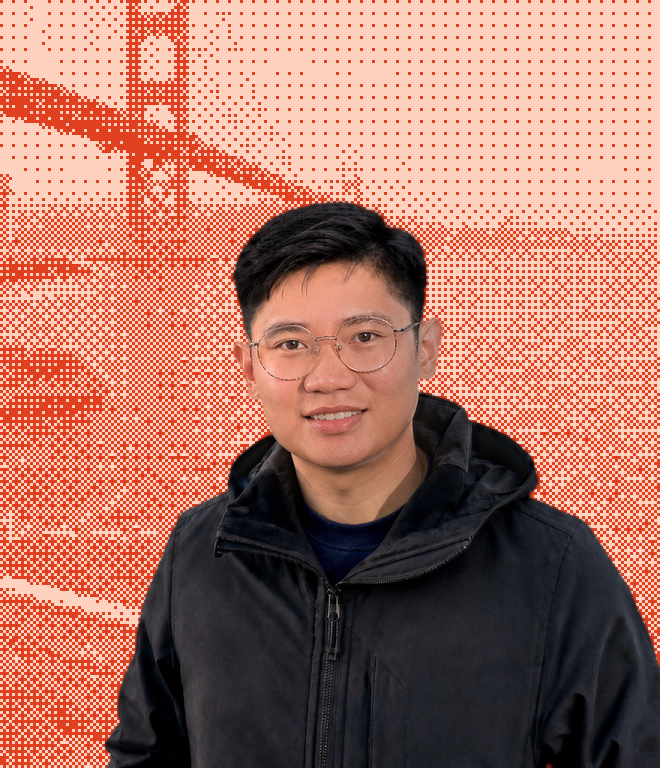
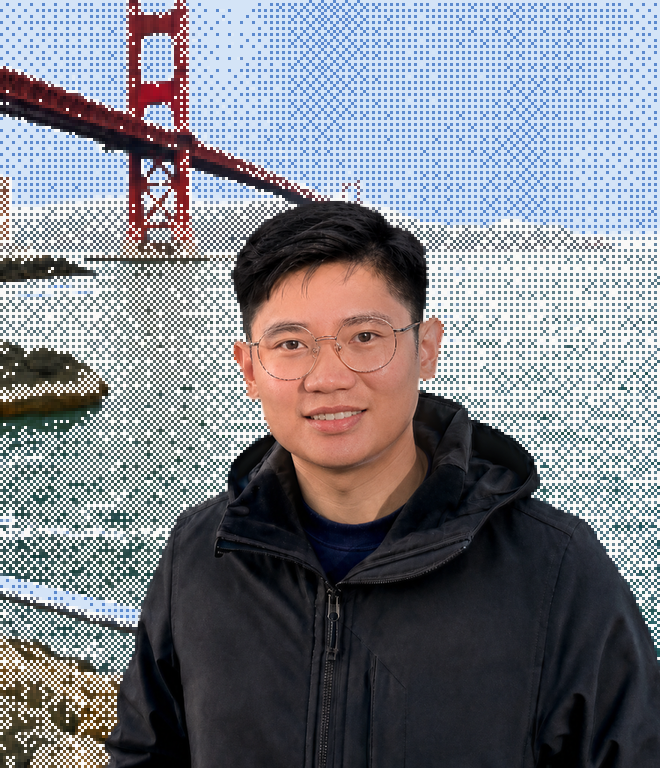
feat(brand): share-image photo in the photo's own colours with a cloudy sky
The share card photo drops the coral dither for the look picked for the hero
card: Kyle in true colour over a dither of the photo in its own colours on
cream, 3px cells, 8x8 Bayer. The sky becomes a soft cloudy blue and the
bridge cables are folded into it so they stop adding noise; the towers and
deck stay. build_brand.py carries the recipe, so the image rebuilds from
source.png.

diff --git a/scripts/hero/build_brand.py b/scripts/hero/build_brand.py
@@ -8,8 +8,9 @@ app/apple-icon.png (180) and public/icons/{icon-192,icon-512,maskable-512}.png.
 icon.png matters as much as the favicon: Chrome on a Retina screen draws the
 tab from the 512 PNG, not the ICO.
 
-Share-image photo: the hero card, Kyle in true colour over a two-tone coral
-Bayer dither, written to app/_og/kyle-card.png for app/opengraph-image.tsx.
+Share-image photo: the hero card, Kyle in true colour over a dither of the
+photo in its own colours on cream (blue cloudy sky, red bridge, no cables),
+written to app/_og/kyle-card.png for app/opengraph-image.tsx.
 
 Both use subject-matte-birefnet.png, rembg `birefnet-general-lite` run on the
 2048x3072 master and downscaled to source.png. The older u2net matte
@@ -27,8 +28,6 @@ from PIL import Image, ImageEnhance, ImageFilter, ImageOps
 HERE = Path(__file__).parent
 ROOT = HERE.parent.parent
 INK, CREAM = (0x1C, 0x19, 0x17), (0xFA, 0xF9, 0xF7)
-CORAL_LO, CORAL_HI = (0xE0, 0x40, 0x1F), (0xFF, 0xD2, 0xBF)
-BAYER = np.array([[0, 8, 2, 10], [12, 4, 14, 6], [3, 11, 1, 9], [15, 7, 13, 5]]) / 16.0
 
 src = Image.open(ROOT / "public/hero/source.png").convert("RGB")
 matte = Image.open(HERE / "subject-matte-birefnet.png").convert("L")
@@ -71,16 +70,6 @@ def ink_icon(size: int, side: int, headroom: int) -> Image.Image:
     return Image.composite(duo, Image.new("RGB", (size, size), CREAM), m.resize((size, size), Image.LANCZOS))
 
 
-def coral_dither(img: Image.Image, cell: int) -> Image.Image:
-    L = ImageOps.autocontrast(img.convert("L"), cutoff=2)
-    sw, sh = img.width // cell, img.height // cell
-    g = np.asarray(L.resize((sw, sh), Image.BOX), dtype=float) / 255
-    t = np.tile(BAYER, (sh // 4 + 1, sw // 4 + 1))[:sh, :sw]
-    lvl = np.clip(np.floor(g + t), 0, 1).astype(int)
-    pal = np.array([CORAL_LO, CORAL_HI], dtype=np.uint8)
-    return Image.fromarray(pal[lvl]).resize(img.size, Image.NEAREST)
-
-
 def check_ico(path: Path) -> None:
     """Turbopack decodes the PNG inside the ICO and rejects any colour type but
     RGBA; webpack never looks, so an RGB save passes locally and fails on
@@ -116,14 +105,82 @@ for path, size, side, headroom in [
     ink_icon(size, side, headroom).save(ROOT / path, optimize=True)
     print(f"wrote {path}")
 
-# Share-image photo, framed like the hero card (330x384) at 2x.
+# Share-image photo, framed like the hero card (330x384) at 2x: Kyle in true
+# colour over a dither of the photo in its own colours (red bridge, blue-green
+# water) on cream, with a soft cloudy blue sky and the bridge cables folded
+# away. 3px cells, 8x8 Bayer. Locked 2026-10-04 ("option 2, soft clouds").
+B8 = np.array([[0, 32, 8, 40, 2, 34, 10, 42], [48, 16, 56, 24, 50, 18, 58, 26],
+               [12, 44, 4, 36, 14, 46, 6, 38], [60, 28, 52, 20, 62, 30, 54, 22],
+               [3, 35, 11, 43, 1, 33, 9, 41], [51, 19, 59, 27, 49, 17, 57, 25],
+               [15, 47, 7, 39, 13, 45, 5, 37], [63, 31, 55, 23, 61, 29, 53, 21]]) / 64.0
+SKY_DOT = np.array([92, 138, 206], dtype=np.float32)
+SKY_GAP = np.array([212, 228, 247], dtype=np.float32)
+CREAM_F = np.array(CREAM, dtype=np.float32)
+
+
+def soft_blur(arr: np.ndarray, r: float) -> np.ndarray:
+    img = Image.fromarray((np.clip(arr, 0, 1) * 255).astype(np.uint8)).filter(ImageFilter.GaussianBlur(r))
+    return np.asarray(img, dtype=np.float32) / 255
+
+
+def cloud_noise(sh: int, sw: int, seed: int = 4, octaves: int = 4, base_cells: int = 6) -> np.ndarray:
+    """Soft value noise, wider than tall like real cloud bands. Fixed seed, so
+    every build draws the same clouds."""
+    rng = np.random.default_rng(seed)
+    out = np.zeros((sh, sw), np.float32)
+    amp, tot = 1.0, 0.0
+    for o in range(octaves):
+        gw = base_cells * 2**o
+        gh = max(2, int(gw * 0.55))
+        g = (rng.random((gh + 1, gw + 1)) * 255).astype(np.uint8)
+        out += amp * np.asarray(Image.fromarray(g).resize((sw, sh), Image.BICUBIC), dtype=np.float32) / 255
+        tot += amp
+        amp *= 0.5
+    out /= tot
+    return (out - out.min()) / (out.max() - out.min() + 1e-6)
+
+
+def photo_dither(img: Image.Image, cell: int = 3, cloud: float = 0.7, mix: float = 0.5,
+                 sky_level: float = 0.68, sat: float = 1.7, shade: float = 0.82) -> Image.Image:
+    sw, sh = img.width // cell, img.height // cell
+    small = img.resize((sw, sh), Image.BOX)
+    a = np.asarray(small, dtype=np.float32) / 255
+    mx, mn, lum = a.max(-1), a.min(-1), a.mean(-1)
+    satv = (mx - mn) / (mx + 1e-4)
+    # sky: bright, pale, blue-leaning
+    w = np.clip((lum - 0.66) / 0.12, 0, 1) * np.clip((0.32 - satv) / 0.12, 0, 1) * (a[..., 2] >= a[..., 0] + 0.02)
+    sky = w > 0.5
+    # cables are 1-2 cells wide: closing the sky mask swallows them, the towers
+    # and deck are far wider and reddish, so they stay
+    m = Image.fromarray((sky * 255).astype(np.uint8))
+    closed = np.asarray(m.filter(ImageFilter.MaxFilter(5)).filter(ImageFilter.MinFilter(5))) > 127
+    cables = closed & ~sky & ~(a[..., 0] > a[..., 2] + 0.025) & (lum > 0.45)
+    w = np.maximum(w, cables.astype(np.float32))
+    # cloud tone: the true sky's broad light (blurred far past cable width,
+    # sampled from sky cells only) mixed with soft noise
+    sm = sky.astype(np.float32)
+    broad = soft_blur(lum * sm, 10) / np.maximum(soft_blur(sm, 10), 1e-3)
+    b = broad[sky]
+    rel = (1 - mix) * np.clip((broad - b.min()) / (b.max() - b.min() + 1e-4), 0, 1) + mix * cloud_noise(sh, sw)
+    col = np.asarray(ImageEnhance.Color(small).enhance(sat), dtype=np.float32)
+    L = np.asarray(ImageOps.autocontrast(small.convert("L"), cutoff=2), dtype=np.float32) / 255
+    ww = w[..., None]
+    dot_c = np.clip(col * shade, 0, 255) * (1 - ww) + SKY_DOT * ww
+    gap_c = CREAM_F * (1 - ww) + SKY_GAP * ww
+    L = L * (1 - w) + (sky_level + cloud * (rel - 0.5)) * w
+    t = np.tile(B8, (sh // 8 + 1, sw // 8 + 1))[:sh, :sw]
+    dot = (L < t * 0.85 + 0.08) | (L < 0.35)
+    arr = np.where(dot[..., None], dot_c, gap_c).astype(np.uint8)
+    return Image.fromarray(arr).resize((sw * cell, sh * cell), Image.NEAREST).resize(img.size, Image.NEAREST)
+
+
 W = 750
 H = round(W * 384 / 330)
 sub, m, raw = crop(W, HEAD_TOP - 435, H)
 out = (660, 768)
 card = Image.composite(
     sub.resize(out, Image.LANCZOS),
-    coral_dither(raw.resize(out, Image.LANCZOS), 3),
+    photo_dither(raw.resize(out, Image.LANCZOS)),
     m.resize(out, Image.LANCZOS),
 )
 (ROOT / "app/_og").mkdir(exist_ok=True)

diff --git a/scripts/hero/README.md b/scripts/hero/README.md
@@ -52,8 +52,13 @@ saved RGBA and checked, since Turbopack rejects anything else),
 `public/icons/{icon-192,icon-512,maskable-512}.png` for `app/manifest.ts`.
 `icon.png` has to match the favicon: Chrome on a Retina screen draws the tab
 from the 512 PNG. The share-image photo, `app/_og/kyle-card.png`, is the hero
-card: Kyle in true colour over a two-tone coral Bayer dither (`#e0401f` on
-`#ffd2bf`, 3px cells), read by `app/opengraph-image.tsx`.
+card, read by `app/opengraph-image.tsx`: Kyle in true colour over a dither of
+the photo in its own colours on cream (red bridge, blue-green water), 3px
+cells, 8x8 Bayer. The sky is a soft cloudy blue: the bridge cables are folded
+into it by closing the sky mask (they are 1-2 cells wide, the reddish towers
+and deck are kept), and the cloud tone mixes the true sky's broad light
+(blurred about 10 cells, sampled from sky cells only) with fixed-seed noise.
+Sharper cloud detail brings the cable lines back, so it stays broad.
 
 It uses `subject-matte-birefnet.png`, rembg `birefnet-general-lite` run on the
 2048x3072 master and downscaled to `source.png`. The u2net matte below leaves a
